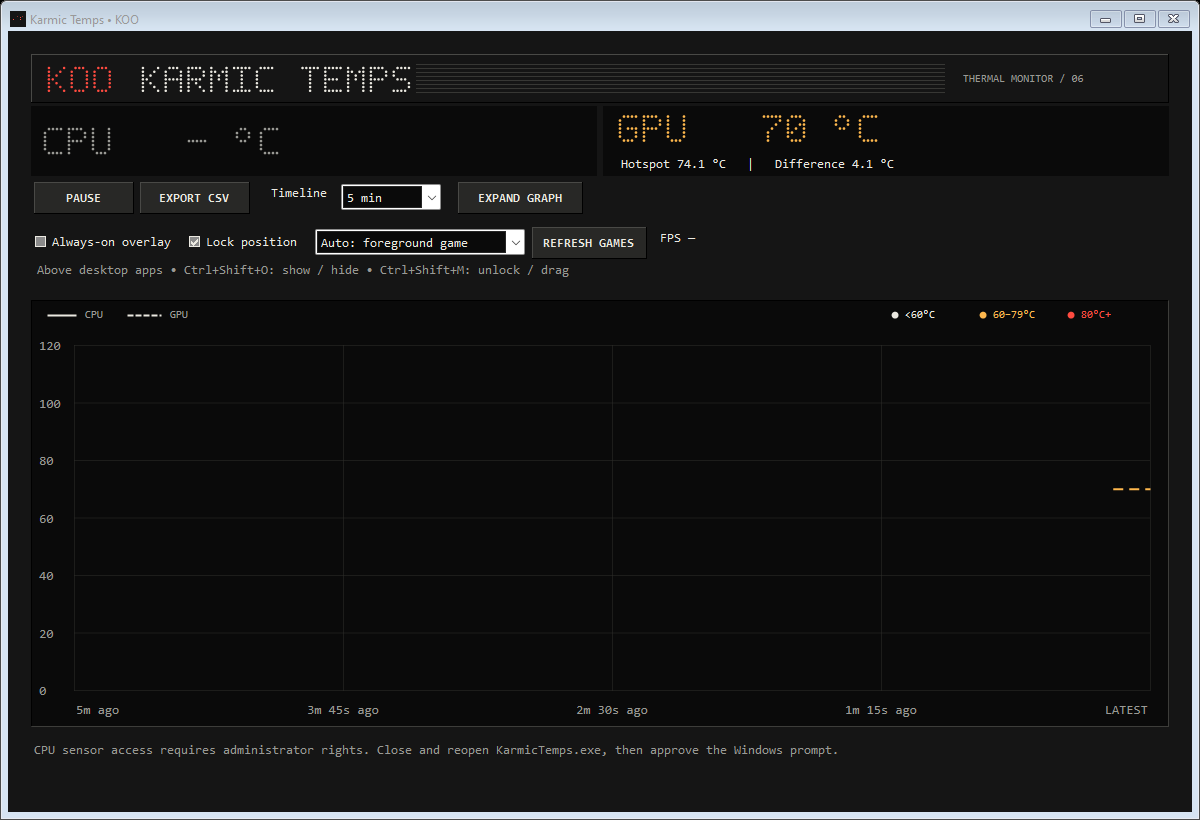
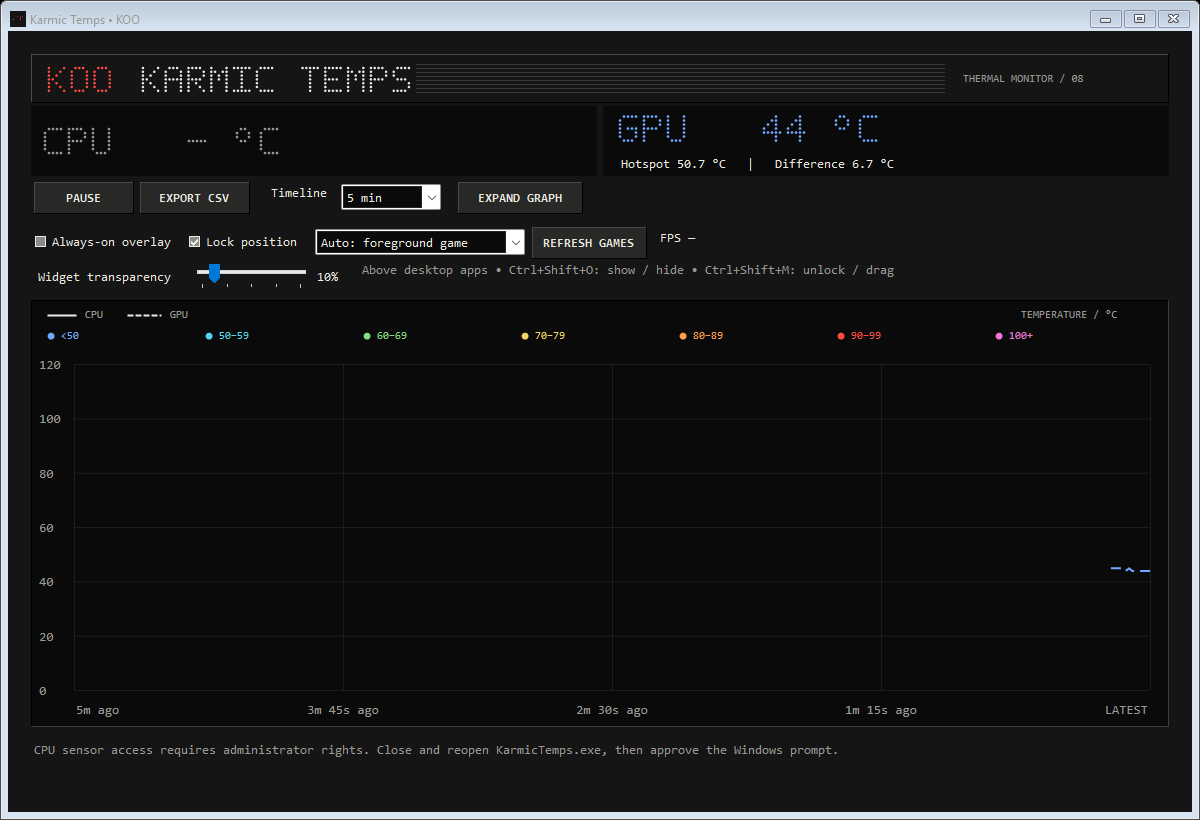
Update Karmic Temps v8 brief, FPS notes, and screenshots

diff --git a/DEVELOPMENT_PROMPT.md b/DEVELOPMENT_PROMPT.md
@@ -1,4 +1,4 @@
-# Karmic Temps — consolidated v6 development prompt
+# Karmic Temps — consolidated v8 development prompt
 
 Build or continue **Karmic Temps**, a small native Windows desktop temperature monitor branded **KOO**. Deliver a runnable application, editable source, build instructions, and genuine screenshots. Use the screenshots in `docs/screenshots/` as the current visual reference. This prompt describes the latest agreed behavior; implement it rather than producing only a design or plan.
 
@@ -34,18 +34,26 @@ The development machine is an Intel Core i9-13900HX / NVIDIA GeForce RTX 4070 La
 
   | Temperature | Color |
   | --- | --- |
-  | Below 60°C | Off-white |
-  | 60°C to below 80°C | Amber |
-  | 80°C or above | Red |
+  | Below 50°C | Blue (`#70A8FF`) |
+  | 50°C to below 60°C | Cyan (`#51D7EB`) |
+  | 60°C to below 70°C | Green (`#86DE84`) |
+  | 70°C to below 80°C | Yellow (`#F2D763`) |
+  | 80°C to below 90°C | Orange (`#FF9E4D`) |
+  | 90°C to below 100°C | Red (`#FF4B40`) |
+  | 100°C and above | Pink (`#F174DA`) |
 
-- Color each historical section according to its temperature, splitting segments at the 60°C and 80°C boundaries. Preserve gaps across missing readings and recording pauses. These are display bands, not universal thermal safety thresholds.
-- Provide **Pause / Resume** and **Export CSV**. CSV columns: timestamp, CPU core/hottest sensor, NVIDIA core, NVIDIA hotspot, hotspot difference. Use ISO timestamps, invariant decimal formatting, and blank fields for unavailable values. Export all retained temperature samples. FPS export is not part of v6.
+- Color each historical section according to its temperature, splitting segments at all six boundaries (50, 60, 70, 80, 90, and 100°C) in either direction. Preserve gaps across missing readings and recording pauses. These are display bands, not universal thermal safety thresholds.
+- Provide **Pause / Resume** and **Export CSV**. CSV columns: timestamp, CPU core/hottest sensor, NVIDIA core, NVIDIA hotspot, hotspot difference. Use ISO timestamps, invariant decimal formatting, and blank fields for unavailable values. Export all retained temperature samples. FPS export is not part of v8.
 
 ## Always-on overlay
 
 - Show the overlay automatically on normal launch. It stays visible when the dashboard is minimized and closes when the app exits.
 - Display **FPS, CPU, GPU, HOT, and ΔHOT**, plus the tracked application and a compact status line.
-- Use a borderless, topmost, slightly translucent window, initially around 300×244 pixels near the top-left of the display.
+- Use a borderless, topmost, slightly translucent window, initially around 250×220 pixels near the top-left of the display.
+- Use compact label/value columns (labels near x=12, values near x=58) and approximately 28-pixel row spacing. Fit readings such as `108.4 °C` without clipping.
+- Add a dashboard **Widget transparency** slider: 0–80%, default 10%, where 0% is fully opaque. Apply it immediately to the entire widget, including text, without changing dashboard opacity. Keep at least 20% opacity so the widget cannot become completely invisible.
+- Save the transparency setting on normal app closure in `%LOCALAPPDATA%/KarmicTemps/widget-transparency.txt`; restore it at startup. Clamp out-of-range values, fall back to 10% for missing/invalid settings, and tolerate storage errors. Preserve the chosen opacity when hiding/showing or locking/unlocking the widget.
+- Keep the transparency slider and capture status visible at both 900×600 and 1200×820 dashboard sizes.
 - Locked mode must be click-through and must not steal keyboard focus.
 - `Ctrl+Shift+O`: toggle visibility and FPS capture.
 - `Ctrl+Shift+M`: unlock/lock; allow dragging while unlocked. Provide equivalent dashboard controls if hotkeys are unavailable.
@@ -59,12 +67,13 @@ The development machine is an Intel Core i9-13900HX / NVIDIA GeForce RTX 4070 La
 - Measure the selected application's presentation rate, not display refresh rate, graph redraw rate, or the app's own timer frequency.
 - Support automatic foreground-process tracking and an explicit process selector with **Refresh games**.
 - The current integration reads PresentMon CSV using `--output_stdout --no_console_stats --v1_metrics --no_track_gpu --no_track_input --no_track_display` and a unique `--session_name`.
-- Parse CSV robustly, including quoted fields. Filter by the selected process. Use `TimeInSeconds`, `MsBetweenPresents`, and `SwapChainAddress`.
+- Parse CSV robustly, including quoted fields, header whitespace, and a possible BOM. Match column names case-insensitively and cache column positions. Filter by the selected `ProcessID`. PresentMon 2.6.0's legacy output uses `TimeInSeconds`, **`msBetweenPresents`** (lowercase `ms`), and `SwapChainAddress`. The earlier case-sensitive expectation `MsBetweenPresents` discarded every frame; preserve the v7 fix and test with the exact collector header.
+- Reset both header state and frame samples when capture restarts. Distinguish unsupported CSV columns, stopped capture, and no recent frames from the selected process. Name the selected process in dashboard status.
 - Calculate approximately one-second average app-present FPS as `1000 / mean(valid frame interval in milliseconds)` for the most active swap chain. Do not add rates from different swap chains.
 - Clear old process measurements when the target changes. Expire stale frame data after roughly 2.5 seconds. Desktop FPS is not applicable; no recent valid data means a dash.
 - Show capture errors clearly, including access-denied errors. Treat app-present FPS as distinct from displayed FPS, especially with dropped or generated frames.
 - Keep only the needed in-memory frame data. Stop the app's own named capture session and child process when disabling the overlay or exiting. Avoid affecting other PresentMon users/sessions.
-- Live in-game capture has not yet been verified in the restricted development environment. Validate it in an elevated run with a real game before claiming it works end to end.
+- The owner confirmed working in-game FPS after the v7 parser fix. Automated coverage still uses controlled frame streams; do not claim universal game compatibility. There is no 120 FPS display cap. Preserve support for 240 FPS and above without confusing the monitor's refresh rate with measured game FPS.
 
 ## Visual direction: dot matrix × classic Winamp
 
@@ -82,7 +91,7 @@ Use a **Nothing OS-inspired dot-matrix display combined with a compact Winamp-st
 
 ## Validation and handoff
 
-Build the release executable and portable ZIP. Verify live GPU/core/hotspot readings where accessible and distinguish actual readings from test fixtures. Test missing-sensor behavior and CSV output across locales; test 59.99/60/79.99/80°C boundary colors, line styles over dense samples, color crossings, missing-data gaps, all timeline views, and minimum-size layout. Check overlay show/hide, click-through locking, dragging, hotkeys, and visibility while the dashboard is minimized. Check FPS process filtering, swap-chain handling, invalid CSV, target changes, and stale-data expiry. Run an elevated game capture when available.
+Build the release executable and portable ZIP. Verify live GPU/core/hotspot readings where accessible and distinguish actual readings from test fixtures. Test missing-sensor behavior and CSV output across locales; test values just below and exactly at every 50/60/70/80/90/100°C color boundary, line styles over dense samples, color crossings, missing-data gaps, all timeline views, and minimum-size layout. Check overlay show/hide, click-through locking, dragging, hotkeys, and visibility while the dashboard is minimized. Check transparency endpoints, immediate slider updates, saved-setting roundtrips, corrupt/missing setting fallback, and opacity across lock/show transitions. Check FPS using the exact PresentMon 2.6.0 legacy CSV header, changing frame rates including 240 FPS, process filtering, swap-chain handling, invalid CSV, target changes, capture reset, unsupported-column diagnostics, and stale-data expiry. Run an elevated game capture when available.
 
 Take genuine screenshots of the final dashboard and overlay. If the capture environment lacks CPU access or active FPS capture, state that in the caption instead of editing in plausible values. Keep test-only simulated graphs out of normal app screens and release screenshots.
 

diff --git a/README.md b/README.md
@@ -4,7 +4,7 @@
 
 Nothing OS-inspired typography meets compact, Winamp-inspired controls: CPU and NVIDIA GPU temperatures, GPU hotspot difference, temperature history, and PresentMon-based FPS integration.
 
-This repository contains the consolidated **v6 development prompt** and screenshots of the working local app.
+This repository contains the consolidated **v8 development prompt** and screenshots of the working local app.
 
 ## Screenshots
 
@@ -16,7 +16,7 @@ This repository contains the consolidated **v6 development prompt** and screensh
 
 ![Karmic Temps compact overlay showing FPS, CPU, GPU, hotspot, and hotspot difference](docs/screenshots/overlay.png)
 
-These are actual v6 app captures, not mockups. They were captured in a restricted development session: GPU and hotspot readings were available, while CPU access required elevation and FPS capture was inactive. CPU temperatures were separately confirmed working by the owner after installing PawnIO. Live in-game FPS remains to be verified.
+These are actual v8 app captures, not mockups. During capture, GPU and hotspot readings were available; CPU sensor access required elevation and FPS capture was inactive. The owner separately confirmed working CPU temperatures after PawnIO setup and working in-game FPS after the v7 fix.
 
 ## Features
 
@@ -24,11 +24,26 @@ These are actual v6 app captures, not mockups. They were captured in a restricte
 - **HOT:** GPU hotspot temperature. **ΔHOT:** hotspot minus core temperature, from the same GPU and sampling cycle.
 - Up to one hour of temperature history; selectable **30 seconds, 1, 5, 15, 30, or 60 minutes**.
 - A large, resizable graph with **CPU solid** and **GPU dashed** lines.
-- Shared temperature colors: **white below 60°C**, **amber from 60°C to below 80°C**, and **red at 80°C or above**. These are visualization bands, not hardware-specific safety limits.
-- A movable, click-through overlay that stays above ordinary desktop apps when the dashboard is minimized.
+- **Seven shared temperature colors**, from blue below 50°C to pink at 100°C and above; see the scale below. These are visualization bands, not hardware-specific safety limits.
+- A compact **250 × 220 pixel** movable, click-through overlay with tighter label/value spacing and rows; it stays above ordinary desktop apps when the dashboard is minimized.
+- **Widget transparency from 0–80%**, adjustable live and remembered after normal app closure.
 - PresentMon FPS integration with foreground-process detection or manual process selection.
 - Pause/resume temperature recording and CSV export, including hotspot and difference.
 - Custom vector dot-matrix lettering, dark inset panels, red KOO branding, and compact beveled controls.
+
+## Temperature colors
+
+Both graph series and the CPU/GPU/hotspot widget readings use the same scale. CPU remains solid and GPU dashed. The hotspot difference stays neutral because it is a relative difference.
+
+| Temperature | Color |
+| --- | --- |
+| Below 50°C | Blue |
+| 50°C to below 60°C | Cyan |
+| 60°C to below 70°C | Green |
+| 70°C to below 80°C | Yellow |
+| 80°C to below 90°C | Orange |
+| 90°C to below 100°C | Red |
+| 100°C and above | Pink |
 
 ## Controls
 
@@ -39,7 +54,10 @@ These are actual v6 app captures, not mockups. They were captured in a restricte
 | Timeline | Change the visible history window without clearing retained readings |
 | Expand graph | Maximize/restore the dashboard |
 | Refresh games | Refresh the process selector |
+| Widget transparency | 0% opaque to 80% transparent; default 10%; affects the entire widget |
 | Export CSV | Save retained temperature history |
+
+Transparency is saved on normal app close in `%LOCALAPPDATA%/KarmicTemps/widget-transparency.txt` and restored on launch.
 
 ## Development prompt
 
@@ -56,7 +74,11 @@ The overlay targets desktop, windowed, and borderless applications. Exclusive fu
 
 ## Project status
 
-The local v6 app has been built and checked for live GPU/hotspot readings, graph rendering, timeline switching, CSV output, and overlay behavior. FPS calculations have controlled-data tests; live in-game capture needs an elevated test with a real game. Source and downloadable binaries are not included in this documentation update.
+The local v8 app has been built and checked for live GPU/hotspot readings, all seven color boundaries, graph transitions and line styles, minimum/default window layouts, transparency persistence, and overlay behavior. FPS regression tests cover the real PresentMon CSV header, changing frame rates, process selection, swap-chain isolation, malformed rows, restart, and stale-data expiry.
+
+The v7 fix corrected a case-sensitive CSV column mismatch: PresentMon emits `msBetweenPresents`, while the old parser expected `MsBetweenPresents`. Matching now ignores casing and surrounding whitespace. The owner confirmed that in-game FPS works after this fix. Karmic Temps does not impose a 120 FPS cap; a simulated 240 FPS stream was also verified.
+
+See [CHANGELOG.md](CHANGELOG.md) for v7 and v8 changes. This repository contains the development brief and screenshots; runnable packages and application source have not been published here.
 
 ## Credits
 

diff --git a/CHANGELOG.md b/CHANGELOG.md
@@ -1,0 +1,22 @@
+# Changelog
+
+## v8 — 2026-10-31
+
+- Expanded from three to seven shared temperature bands, with boundaries at 50, 60, 70, 80, 90, and 100°C. The scale was refined after reviewing exported temperature readings.
+- Preserved CPU solid / GPU dashed lines and split historical segments at each color boundary.
+- Reduced the widget from 300 × 244 to 250 × 220 pixels, bringing values 16 pixels closer to their labels and tightening rows.
+- Added a 0–80% widget transparency slider, defaulting to 10%, with live updates and persistence after normal app closure.
+- Verified color boundaries, graph transitions, line styles, minimum/default layouts, transparency persistence and overlay state changes. Refreshed genuine dashboard and widget screenshots.
+
+## v7 — 2026-10-29
+
+- Fixed FPS data being discarded because the parser expected `MsBetweenPresents` while the bundled PresentMon collector emits `msBetweenPresents`.
+- Made header matching insensitive to casing and surrounding whitespace, tolerated a BOM, and cached column positions.
+- Cleared capture state on restart and added clearer messages for unsupported columns, stopped capture and missing game frames.
+- Reproduced the old failure with PresentMon's actual legacy header and verified changing FPS, separate swap chains, process switching, invalid data and stale expiry.
+- The owner confirmed FPS working in games after the fix. A separate simulated 240 FPS test verified that the app does not cap readings at 120.
+
+## v6
+
+- Introduced shared temperature-based graph colors while keeping CPU solid and GPU dashed.
+- Published the consolidated development prompt and genuine app screenshots.
